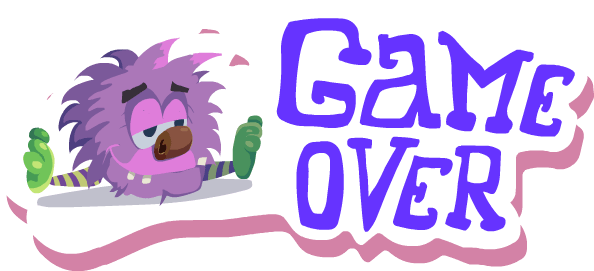
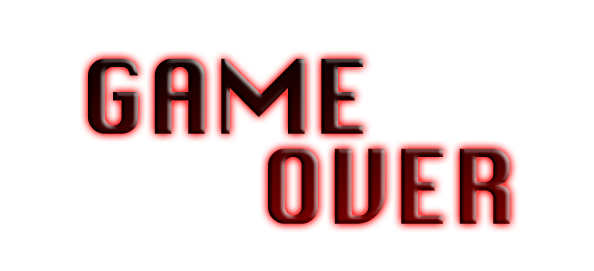
Adding axe, change game over image

diff --git a/build/js/main.js b/build/js/main.js
@@ -1,1 +1,1 @@
-!function t(e,s,i){function r(o,n){if(!s[o]){if(!e[o]){var h="function"==typeof require&&require;if(!n&&h)return h(o,!0);if(a)return a(o,!0);throw new Error("Cannot find module '"+o+"'")}var l=s[o]={exports:{}};e[o][0].call(l.exports,function(t){var s=e[o][1][t];return r(s?s:t)},l,l.exports,t,e,s,i)}return s[o].exports}for(var a="function"==typeof require&&require,o=0;o<i.length;o++)r(i[o]);return r}({1:[function(t){(function(e){var s,i,r,a,o;e.Axe={},s=t("./boot"),r=t("./load"),a=t("./menu"),o=t("./play"),i=new Phaser.Game(960,640,Phaser.AUTO,"game"),i.state.add("boot",s),i.state.add("load",r),i.state.add("menu",a),i.state.add("play",o),i.state.start("boot")}).call(this,"undefined"!=typeof self?self:"undefined"!=typeof window?window:{})},{"./boot":2,"./load":3,"./menu":4,"./play":6}],2:[function(t,e){var s;s=function(){function t(){}return t.prototype.create=function(){return this.input.maxPointers=1,this.scale.scaleMode=Phaser.ScaleManager.SHOW_ALL,this.scale.pageAlignHorizontally=!0,this.scale.pageAlignVertically=!0,this.scale.setScreenSize(!0),this.state.start("load")},t.prototype.preload=function(){return this.load.image("preloaderBar","images/loading-bar.png")},t}(),e.exports=s},{}],3:[function(t,e){var s;s=function(){function t(){Axe.GAME_WIDTH=960,Axe.GAME_HEIGHT=640}return t.prototype.create=function(){return this.state.start("menu")},t.prototype.preload=function(){return this.stage.backgroundColor="#444444",this.preloadBar=this.add.sprite((Axe.GAME_WIDTH-311)/2,(Axe.GAME_HEIGHT-27)/2,"preloaderBar"),this.load.setPreloadSprite(this.preloadBar),this.load.image("background","images/background.png"),this.load.image("floor","images/floor.png"),this.load.image("title","images/title.png"),this.load.image("game-over","images/gameover.png"),this.load.image("score-bg","images/score-bg.png"),this.load.image("button-pause","images/button-pause.png"),this.load.image("player","images/player.png"),this.load.image("enemy","images/enemy.png"),this.load.spritesheet("candy","images/candy.png",82,98),this.load.spritesheet("button-start","images/button-start.png",401,143)},t}(),e.exports=s},{}],4:[function(t,e){var s;s=function(){function t(){}return t.prototype.create=function(){return this.add.sprite(0,0,"background"),this.add.sprite((Axe.GAME_WIDTH-395)/2,60,"title"),this.add.button(this.world.centerX-200,this.world.centerY+100,"button-start",this.startGame,this,1,0,2)},t.prototype.startGame=function(){return this.state.start("play")},t}(),e.exports=s},{}],5:[function(t,e){var s;s=function(){function t(){}return t.prototype.spawnEnemy=function(t){var e,s;return s=Math.random()>.5?Axe.GAME_WIDTH-30:30,e=t.add.sprite(s,Axe.GAME_HEIGHT-80,"enemy"),e.anchor.setTo(.5,1),t.physics.enable(e,Phaser.Physics.ARCADE),t.mobGroup.add(e)},t}(),e.exports=s},{}],6:[function(t,e){var s,i;i=t("./mobs"),s=function(){function t(){this.player=null,this.mobGroup=null,this.spawnTimer=null,this.spawnInterval=null,this.fontStyle=null,this.scoreText=null,this.score=0}return t.prototype.create=function(){return console.log("GAME STARTED"),this.mobs=new i,this.physics.startSystem(Phaser.Physics.ARCADE),this.physics.arcade.gravity.y=200,this.background=this.add.tileSprite(0,0,Axe.GAME_WIDTH,Axe.GAME_HEIGHT,"background"),this.floor=this.add.tileSprite(0,Axe.GAME_HEIGHT-80,Axe.GAME_WIDTH,83,"floor"),this.add.sprite(10,5,"score-bg"),this.physics.enable(this.floor,Phaser.Physics.ARCADE),this.floor.body.allowGravity=!1,this.floor.body.immovable=!0,this.add.button(Axe.GAME_WIDTH-106,5,"button-pause",this.managePause,this),this.player=this.add.sprite(Axe.GAME_WIDTH/2,Axe.GAME_HEIGHT-83,"player"),this.player.anchor.setTo(.5,1),this.physics.enable(this.player,Phaser.Physics.ARCADE),this.player.immovable=!0,this.fontStyle={font:"40px Arial",fill:"#FFCC00",stroke:"#333",strokeThickness:5,align:"center"},this.spawnTimer=0,this.spawnInterval=3e3,this.mobGroup=this.add.group(),this.scoreText=this.add.text(120,20,"0",this.fontStyle),this.score=0,this.difficultyTimer=this.time.create(!1),this.difficultyTimer.loop(5e3,this.increaseDifficulty,this),this.cursors=this.input.keyboard.createCursorKeys(),this.mobs.spawnEnemy(this)},t.prototype.managePause=function(){var t;return this.game.paused=!0,this.pausedText=this.add.text(Axe.GAME_WIDTH/4,250,"Game paused.\nClick anywhere to continue.",this.fontStyle),t=this,this.input.onDown.add(function(){return t.pausedText.destroy(),t.game.paused=!1})},t.prototype.update=function(){return this.physics.arcade.collide(this.player,this.floor),this.cursors.left.isDown&&(this.player.scale.x=-1,this.background.tilePosition.x+=3,this.floor.tilePosition.x+=3),this.cursors.right.isDown&&(this.player.scale.x=1,this.background.tilePosition.x-=3,this.floor.tilePosition.x-=3),this.time.elapsed,this.spawnTimer+=this.time.elapsed,this.spawnTimer>this.spawnInterval&&(this.spawnTimer=0,this.mobs.spawnEnemy(this)),this.mobGroup.forEach(function(t){return function(e){var s;return t.physics.arcade.collide(e,t.player,t.gameOver,null,t),t.physics.arcade.collide(e,t.floor),s=60,e.position.x>=Axe.GAME_WIDTH/2?(e.scale.x=-1,t.cursors.left.isDown&&(s=0),t.cursors.right.isDown&&(s=120)):(e.scale.x=1,t.cursors.left.isDown&&(s=120),t.cursors.right.isDown&&(s=0)),t.physics.arcade.moveToObject(e,t.player,s)}}(this))},t.prototype.gameOver=function(){return this.add.sprite((Axe.GAME_WIDTH-594)/2,(Axe.GAME_HEIGHT-271)/2,"game-over"),this.game.paused=!0},t.prototype.increaseDifficulty=function(){return this.spawnInterval>0?this.spawnInterval-=50:this.spawnInterval=0},t}(),e.exports=s},{"./mobs":5}]},{},[1]);
+!function t(e,s,i){function r(o,n){if(!s[o]){if(!e[o]){var h="function"==typeof require&&require;if(!n&&h)return h(o,!0);if(a)return a(o,!0);throw new Error("Cannot find module '"+o+"'")}var l=s[o]={exports:{}};e[o][0].call(l.exports,function(t){var s=e[o][1][t];return r(s?s:t)},l,l.exports,t,e,s,i)}return s[o].exports}for(var a="function"==typeof require&&require,o=0;o<i.length;o++)r(i[o]);return r}({1:[function(t){(function(e){var s,i,r,a,o;e.Axe={},s=t("./boot"),r=t("./load"),a=t("./menu"),o=t("./play"),i=new Phaser.Game(960,640,Phaser.AUTO,"game"),i.state.add("boot",s),i.state.add("load",r),i.state.add("menu",a),i.state.add("play",o),i.state.start("boot")}).call(this,"undefined"!=typeof self?self:"undefined"!=typeof window?window:{})},{"./boot":2,"./load":3,"./menu":4,"./play":6}],2:[function(t,e){var s;s=function(){function t(){}return t.prototype.create=function(){return this.input.maxPointers=1,this.scale.scaleMode=Phaser.ScaleManager.SHOW_ALL,this.scale.pageAlignHorizontally=!0,this.scale.pageAlignVertically=!0,this.scale.setScreenSize(!0),this.state.start("load")},t.prototype.preload=function(){return this.load.image("preloaderBar","images/loading-bar.png")},t}(),e.exports=s},{}],3:[function(t,e){var s;s=function(){function t(){Axe.GAME_WIDTH=960,Axe.GAME_HEIGHT=640}return t.prototype.create=function(){return this.state.start("menu")},t.prototype.preload=function(){return this.stage.backgroundColor="#444444",this.preloadBar=this.add.sprite((Axe.GAME_WIDTH-311)/2,(Axe.GAME_HEIGHT-27)/2,"preloaderBar"),this.load.setPreloadSprite(this.preloadBar),this.load.image("background","images/background.png"),this.load.image("floor","images/floor.png"),this.load.image("title","images/title.png"),this.load.image("game-over","images/gameover.png"),this.load.image("score-bg","images/score-bg.png"),this.load.image("button-pause","images/button-pause.png"),this.load.image("player","images/player.png"),this.load.image("enemy","images/enemy.png"),this.load.image("axe","images/axe.png"),this.load.spritesheet("candy","images/candy.png",82,98),this.load.spritesheet("button-start","images/button-start.png",401,143)},t}(),e.exports=s},{}],4:[function(t,e){var s;s=function(){function t(){}return t.prototype.create=function(){return this.add.sprite(0,0,"background"),this.add.sprite((Axe.GAME_WIDTH-395)/2,60,"title"),this.add.button(this.world.centerX-200,this.world.centerY+100,"button-start",this.startGame,this,1,0,2)},t.prototype.startGame=function(){return this.state.start("play")},t}(),e.exports=s},{}],5:[function(t,e){var s;s=function(){function t(){}return t.prototype.spawnEnemy=function(t){var e,s;return s=Math.random()>.5?Axe.GAME_WIDTH-30:30,e=t.add.sprite(s,Axe.GAME_HEIGHT-80,"enemy"),e.anchor.setTo(.5,1),t.physics.enable(e,Phaser.Physics.ARCADE),t.mobGroup.add(e)},t}(),e.exports=s},{}],6:[function(t,e){var s,i;i=t("./mobs"),s=function(){function t(){this.player=null,this.mobGroup=null,this.spawnTimer=null,this.spawnInterval=null,this.fontStyle=null,this.scoreText=null,this.score=0}return t.prototype.create=function(){return console.log("GAME STARTED"),this.mobs=new i,this.physics.startSystem(Phaser.Physics.ARCADE),this.physics.arcade.gravity.y=200,this.background=this.add.tileSprite(0,0,Axe.GAME_WIDTH,Axe.GAME_HEIGHT,"background"),this.floor=this.add.tileSprite(0,Axe.GAME_HEIGHT-80,Axe.GAME_WIDTH,83,"floor"),this.add.sprite(10,5,"score-bg"),this.physics.enable(this.floor,Phaser.Physics.ARCADE),this.floor.body.allowGravity=!1,this.floor.body.immovable=!0,this.add.button(Axe.GAME_WIDTH-106,5,"button-pause",this.managePause,this),this.player=this.add.sprite(Axe.GAME_WIDTH/2,Axe.GAME_HEIGHT-83,"player"),this.player.anchor.setTo(.5,1),this.physics.enable(this.player,Phaser.Physics.ARCADE),this.player.immovable=!0,this.axe=this.add.sprite(0,0,"axe"),this.axe.anchor.setTo(0,1),this.axe.position.x=this.player.position.x+20,this.axe.position.y=this.player.position.y-70,this.axe.angle=10,this.fontStyle={font:"40px Arial",fill:"#FFCC00",stroke:"#333",strokeThickness:5,align:"center"},this.spawnTimer=0,this.spawnInterval=3e3,this.mobGroup=this.add.group(),this.scoreText=this.add.text(120,20,"0",this.fontStyle),this.score=0,this.difficultyTimer=this.time.create(!1),this.difficultyTimer.loop(5e3,this.increaseDifficulty,this),this.cursors=this.input.keyboard.createCursorKeys(),this.mobs.spawnEnemy(this)},t.prototype.managePause=function(){var t;return this.game.paused=!0,this.pausedText=this.add.text(Axe.GAME_WIDTH/4,250,"Game paused.\nClick anywhere to continue.",this.fontStyle),t=this,this.input.onDown.add(function(){return t.pausedText.destroy(),t.game.paused=!1})},t.prototype.update=function(){return this.physics.arcade.collide(this.player,this.floor),this.cursors.left.isDown&&(this.player.scale.x=-1,this.background.tilePosition.x+=3,this.floor.tilePosition.x+=3),this.cursors.right.isDown&&(this.player.scale.x=1,this.background.tilePosition.x-=3,this.floor.tilePosition.x-=3),this.time.elapsed,this.spawnTimer+=this.time.elapsed,this.spawnTimer>this.spawnInterval&&(this.spawnTimer=0,this.mobs.spawnEnemy(this)),this.mobGroup.forEach(function(t){return function(e){var s;return t.physics.arcade.collide(e,t.player,t.gameOver,null,t),t.physics.arcade.collide(e,t.floor),s=60,e.position.x>=Axe.GAME_WIDTH/2?(e.scale.x=-1,t.cursors.left.isDown&&(s=0),t.cursors.right.isDown&&(s=120)):(e.scale.x=1,t.cursors.left.isDown&&(s=120),t.cursors.right.isDown&&(s=0)),t.physics.arcade.moveToObject(e,t.player,s)}}(this))},t.prototype.gameOver=function(){return this.add.sprite((Axe.GAME_WIDTH-594)/2,(Axe.GAME_HEIGHT-271)/2,"game-over"),this.game.paused=!0},t.prototype.increaseDifficulty=function(){return this.spawnInterval>0?this.spawnInterval-=50:this.spawnInterval=0},t}(),e.exports=s},{"./mobs":5}]},{},[1]);
